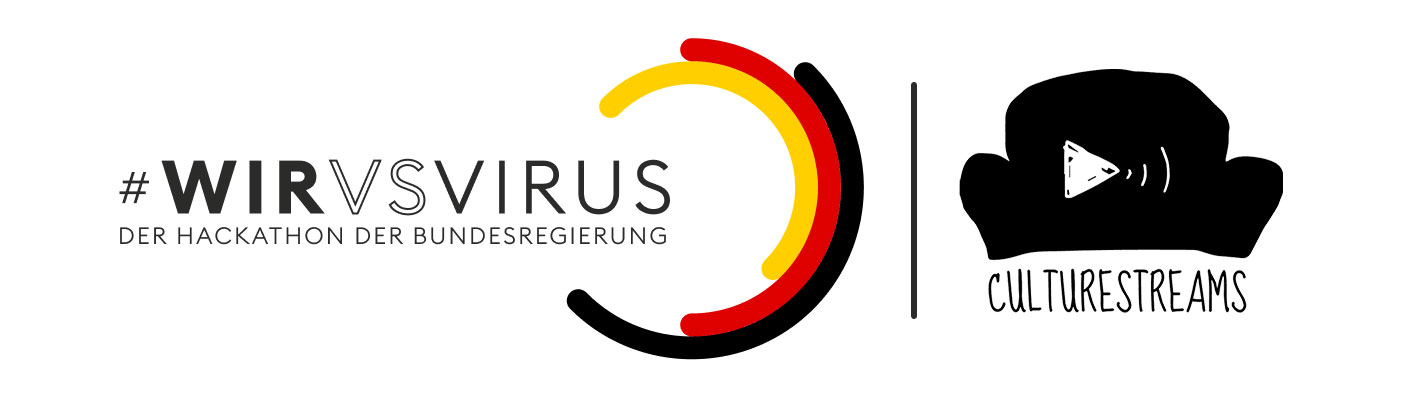
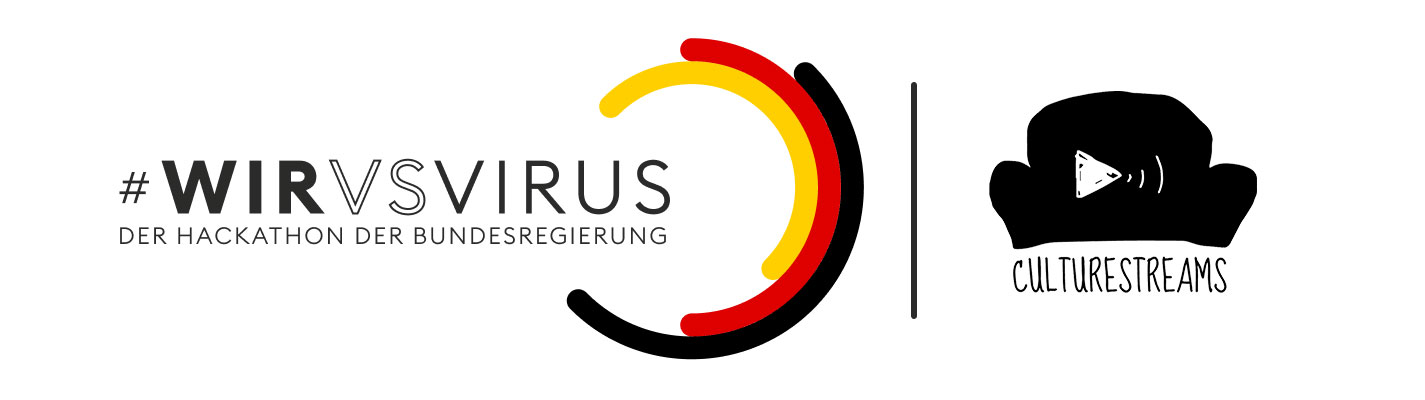
small design changes at home page

Changed region(s): [[0.6484, 0.15, 0.9263, 0.78]]

diff --git a/src/app/pages/home/home.component.html b/src/app/pages/home/home.component.html
@@ -1,10 +1,7 @@
-<header fxLayout="column" fxLayoutAlign=" center">
-  <icon-logo></icon-logo>
-  <h1 class="hidden">Culture Streams - Die Veranstaltungsdatenbank für Kulturstreaming</h1>
-</header>
-
-<main class="content">
+<main class="content" fxLayout="column" fxLayoutAlign=" center">
   <section fxLayout="column" fxLayoutAlign=" center">
+    <icon-logo></icon-logo>
+    <h1 class="hidden">Culture Streams - Die Veranstaltungsdatenbank für Kulturstreaming</h1>
     <p class="explanation-text">
       culturestreams.org bringt Kunst und Künstler:innen live in eure Wohnzimmer!
       Theater und Oper, Ballett und Streetdance, Orchester, Band und Musiker, Poetry-Slam und Lesung –
